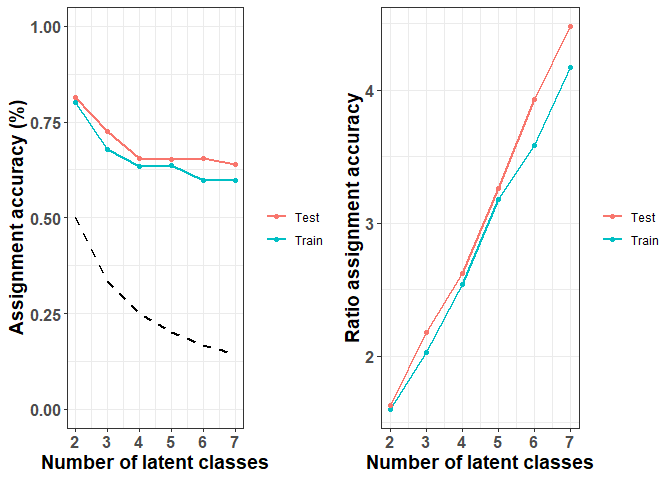
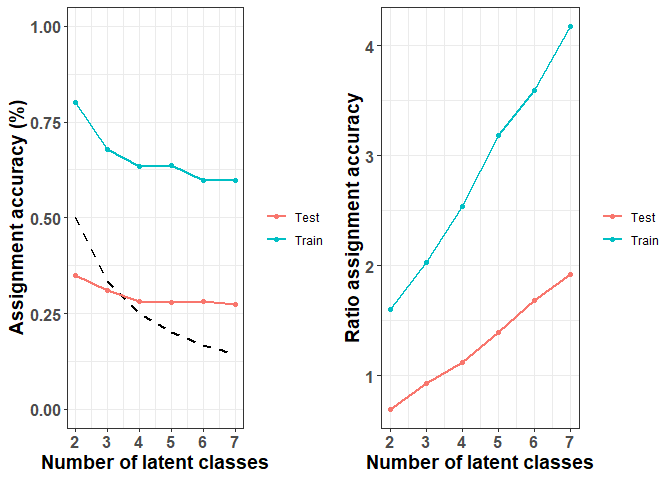
added assign_LCA and ggalluvial

diff --git a/README.md b/README.md
@@ -129,3 +129,16 @@ prev_sol5 <- ggprev(res$obj[[4]])
 ```
 
 <img src="man/figures/README-unnamed-chunk-10-1.png" width="100%" />
+
+### Assignment of subject into the latent classes
+
+**Warning**: If following analyses are performed, it is recommended to
+take into account for the uncertainty in the classification.
+
+``` r
+mm_pattern <- assign_LCA(res$obj[[4]],X)
+table(mm_pattern)
+#> mm_pattern
+#>    1    2    3    4    5 
+#>  425 1087  555  207  487
+```
